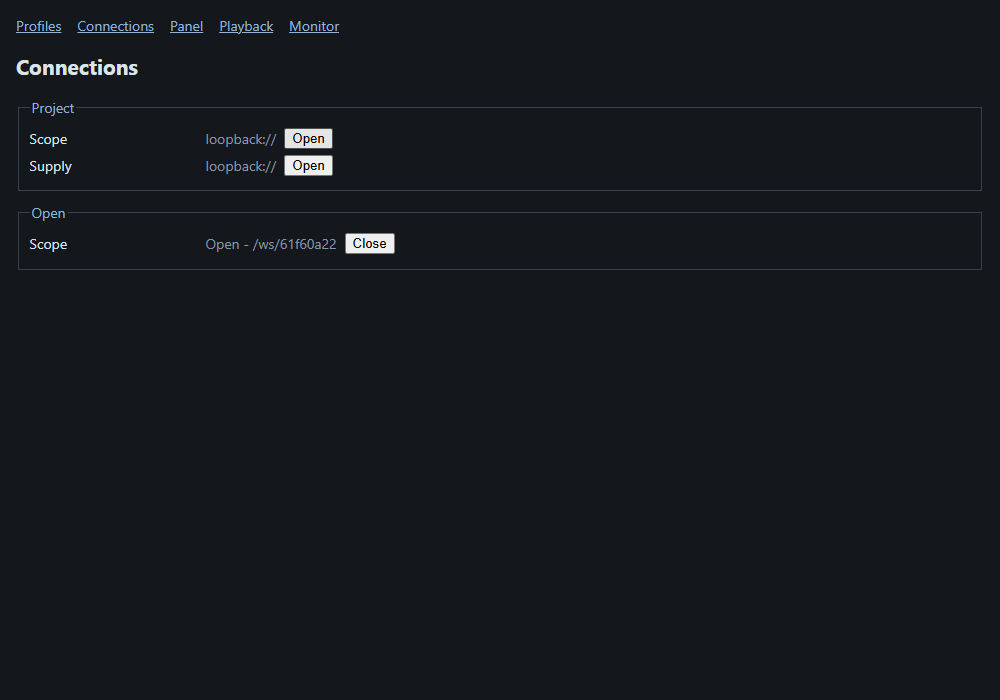
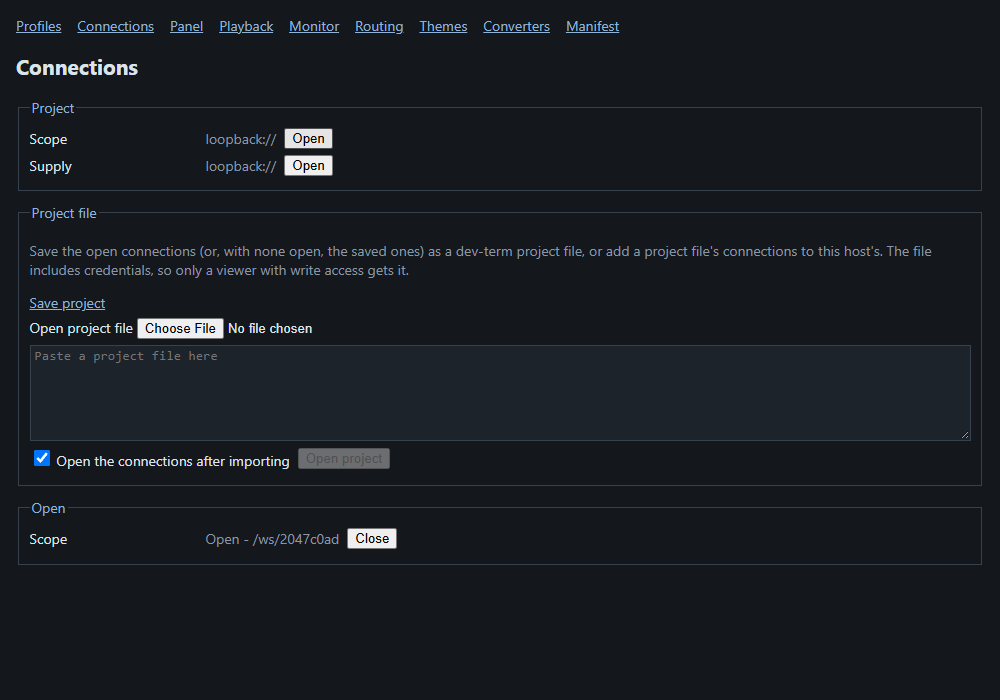
Web: project save/open on the Connections page, with export/import endpoints, tests and docs

diff --git a/tests/DevTerm.Web.Tests/WebScreenshotTests.cs b/tests/DevTerm.Web.Tests/WebScreenshotTests.cs
@@ -469,6 +469,47 @@ public class WebScreenshotTests
     }, BenchProject());
 
     [TestMethod]
+    public Task ConnectionsPage_SavesTheOpenConnectionsAndOpensAProjectFile() => RunAsync(async (page, baseUrl) =>
+    {
+        await page.GotoAsync($"{baseUrl}/connections?token=demo-token");
+        await page.WaitForLoadStateAsync(LoadState.NetworkIdle);
+        await Task.Delay(1000); // the circuit must be interactive before a click on the prerendered button counts
+        await page.Locator("[data-project=Scope] button").ClickAsync();
+        await Assertions.Expect(page.Locator("[data-open]")).ToHaveCountAsync(1);
+
+        // Save project: the open connection, as a project file.
+        var saved = await page.EvaluateAsync<string>("fetch('/api/project/export?token=demo-token').then(r => r.text())");
+        var project = ProjectFile.FromJson(saved);
+        Assert.HasCount(1, project.Connections);
+        Assert.AreEqual("Scope", project.Connections[0].Name);
+
+        // Open project: a file with one good and one invalid connection.
+        var incoming = ProjectFile.From("Incoming", [("Pasted", new CliOptions { Transport = "loopback", Presenter = ["hex"] })]).ToJson();
+        await page.Locator("[data-importtext]").FillAsync(incoming);
+        await page.Locator("[data-import]").ClickAsync();
+        await Assertions.Expect(page.Locator("[data-importresult]")).ToContainTextAsync("Imported 1 connection(s), opened 1");
+        await Assertions.Expect(page.Locator("[data-project=Pasted]")).ToHaveCountAsync(1);
+        await Assertions.Expect(page.Locator("[data-open]")).ToHaveCountAsync(2);
+        await SaveAsync(page, "web-blazor-connections-project.png");
+
+        await page.Locator("[data-importtext]").FillAsync("not a project");
+        await page.Locator("[data-import]").ClickAsync();
+        await Assertions.Expect(page.Locator("[data-importresult]")).ToContainTextAsync("Imported 0");
+    }, BenchProject());
+
+    [TestMethod]
+    public Task ConnectionsPage_ReadOnly_CannotSaveOrOpenAProject() => RunAsync(async (page, baseUrl) =>
+    {
+        await page.GotoAsync($"{baseUrl}/connections?token=watch-token");
+        await Assertions.Expect(page.Locator("[data-projectfile-readonly]")).ToBeVisibleAsync();
+        await Assertions.Expect(page.Locator("[data-import]")).ToHaveCountAsync(0);
+        var status = await page.EvaluateAsync<int>("fetch('/api/project/export?token=watch-token').then(r => r.status)");
+        Assert.AreEqual(403, status);
+        var post = await page.EvaluateAsync<int>("fetch('/api/project/import?token=watch-token', { method: 'POST', body: '{}' }).then(r => r.status)");
+        Assert.AreEqual(403, post);
+    }, BenchProject());
+
+    [TestMethod]
     public Task ProfilesPage_AddEditAndDelete_Screenshot() => RunAsync(async (page, baseUrl) =>
     {
         await page.GotoAsync($"{baseUrl}/profiles?token=demo-token");

diff --git a/src/DevTerm.Web/ConnectionManager.cs b/src/DevTerm.Web/ConnectionManager.cs
@@ -210,6 +210,63 @@ public sealed class ConnectionManager
 
     private ProjectFile LoadOrNew() => File.Exists(_projectPath!) ? ProjectFile.Load(_projectPath!) : new ProjectFile { Name = Path.GetFileNameWithoutExtension(_projectPath!) };
 
+    /// <summary>
+    /// The connections as a project file (File > Save Project in the desktop apps): the extra connections open now, with whether each was
+    /// logging, or the saved project's connections when none are open. Includes credentials, so callers must not offer it to a read-only viewer.
+    /// Null when there is nothing to save.
+    /// </summary>
+    public string? ExportProject(string name)
+    {
+        var tabs = _open.Values.Select(c => new ProjectTabState(c.Name, c.Hub.Options, [], c.Hub.LogPath is not null)).ToList();
+        if (tabs.Count == 0)
+        {
+            foreach (var (connectionName, _) in Project())
+            {
+                if (ProjectOptions(connectionName) is { } options)
+                {
+                    tabs.Add(new ProjectTabState(connectionName, options, [], false));
+                }
+            }
+        }
+
+        return tabs.Count == 0 ? null : ProjectFile.FromTabs(name, tabs, null).ToJson();
+    }
+
+    /// <summary>
+    /// Adds every connection of a project file (File > Open Project) to this host's connections, replacing same-named ones; the file's
+    /// window layout and per-tab history have no meaning for a web host and are ignored. Returns the names imported and an error per
+    /// connection (or one for an unreadable file) that was not.
+    /// </summary>
+    public (IReadOnlyList<string> Imported, IReadOnlyList<string> Errors) ImportProject(string json)
+    {
+        ProjectFile project;
+        try
+        {
+            project = ProjectFile.FromJson(json);
+        }
+        catch (InvalidDataException ex)
+        {
+            return ([], [ex.Message]);
+        }
+
+        var imported = new List<string>();
+        var errors = new List<string>();
+        foreach (var connection in project.Connections)
+        {
+            var error = Upsert(connection.Name, connection.ProfileJson);
+            if (error is null)
+            {
+                imported.Add(connection.Name);
+            }
+            else
+            {
+                errors.Add($"{connection.Name}: {error}");
+            }
+        }
+
+        return (imported, errors);
+    }
+
     public IReadOnlyList<(string Id, string Name, string State)> Open() =>
         [.. _open.Select(c => (c.Key, c.Value.Name, c.Value.Hub.State.ToString()))];
 

diff --git a/src/DevTerm.Web/WebHost.cs b/src/DevTerm.Web/WebHost.cs
@@ -260,6 +260,30 @@ public static class WebHost
         // The connections of the --project file (name + description only; no credentials leave the host), or [] without one.
         app.MapGet("/api/project", () => Results.Json(connections.Project().Select(c => new { name = c.Name, description = c.Description }))).WithSummary("The project file's connections (name and description only)");
 
+        // Save and open a whole project (File > Save Project / Open Project). Both carry credentials, so a read-only viewer gets neither.
+        app.MapGet("/api/project/export", (HttpContext context, string? name) =>
+        {
+            if (context.Items.ContainsKey(AccessTokenMiddleware.ReadOnlyItem))
+            {
+                return Results.StatusCode(StatusCodes.Status403Forbidden);
+            }
+
+            return connections.ExportProject(string.IsNullOrWhiteSpace(name) ? "project" : name) is { } json
+                ? Results.Text(json, "application/json")
+                : Results.NotFound(new { error = "No connections are open and the host has no saved project." });
+        }).WithSummary("The open connections (or the saved project) as a dev-term project file; 404 when there are none, 403 read-only");
+        app.MapPost("/api/project/import", async (HttpContext context) =>
+        {
+            if (context.Items.ContainsKey(AccessTokenMiddleware.ReadOnlyItem))
+            {
+                return Results.StatusCode(StatusCodes.Status403Forbidden);
+            }
+
+            using var reader = new StreamReader(context.Request.Body);
+            var (imported, errors) = connections.ImportProject(await reader.ReadToEndAsync(context.RequestAborted));
+            return errors.Count > 0 && imported.Count == 0 ? Results.BadRequest(new { imported, errors }) : Results.Json(new { imported, errors });
+        }).WithSummary("Add a project file's connections to the host's; 400 when none could be imported, 403 read-only");
+
         // Create, replace and remove a project connection. The body is the profile JSON (what a saved profile holds).
         app.MapPut("/api/project/connections/{name}", async (HttpContext context, string name) =>
         {

diff --git a/TODO.md b/TODO.md
@@ -8,7 +8,7 @@ Completed work is logged by date under `docs/changes/`.
 
 Queue from your 2026-10-02 answers. Each item below is partly built; what is left is stated per item.
 
-1. **Message brokers and the web tunnel** (unlocked). MQTT, AMQP and STOMP are built and verified (see `docs/changes/2026-10-02.md` and `2026-10-03.md`); the `DevTerm.Web` host is built too (loopback-only, token auth, `/ws` tunnel). The Blazor `/panel` page is built too (see `docs/changes/2026-10-03.md`). Indicator values on `/panel` update live. Web parity with the desktop apps is under way (2026-10-08): send format, echo, clear, logging, theme, history and the per-session Device menu are built; Playback, XON/XOFF, the Stream Monitor and Routing, the Theme builder and the converter tools editor and Stream Monitor Convert and the Manifest editor (typed expressions, no pickers) are built too; left: project save/open, Configure device. Also left: a real home-automation broker check. Proposals: [message-broker-protocols](docs/design/proposals/message-broker-protocols.md), [web-tunnel-blazor-frontend](docs/design/proposals/web-tunnel-blazor-frontend.md).
+1. **Message brokers and the web tunnel** (unlocked). MQTT, AMQP and STOMP are built and verified (see `docs/changes/2026-10-02.md` and `2026-10-03.md`); the `DevTerm.Web` host is built too (loopback-only, token auth, `/ws` tunnel). The Blazor `/panel` page is built too (see `docs/changes/2026-10-03.md`). Indicator values on `/panel` update live. Web parity with the desktop apps is under way (2026-10-08): send format, echo, clear, logging, theme, history and the per-session Device menu are built; Playback, XON/XOFF, the Stream Monitor and Routing, the Theme builder and the converter tools editor and Stream Monitor Convert and the Manifest editor (typed expressions, no pickers) are built too; project save/open is built too (2026-10-09); left: Configure device. Also left: a real home-automation broker check. Proposals: [message-broker-protocols](docs/design/proposals/message-broker-protocols.md), [web-tunnel-blazor-frontend](docs/design/proposals/web-tunnel-blazor-frontend.md).
 3. **Observability**: built (see `docs/changes/2026-10-02.md`). Metrics now export every 10 s (see `docs/changes/2026-10-03.md`). Traces confirmed in the Aspire dashboard container (see `docs/changes/2026-10-03.md`). Left: confirm the metric instruments show in its Metrics page. `ILogger` export has nothing to export yet (no code logs through `ILogger`), so it waits until something does.
 4. **TUI-only palette option** for the light theme on 16-color consoles: built (see `docs/changes/2026-10-02.md`). Left: look at it on a real legacy conhost.
 5. **Plugin loading**: the loader is built (see `docs/changes/2026-10-03.md`). Left: move the built-in decoders (NMEA, RadexOne, ...) out of the core references into plugin folders. Not a mechanical move: `ServiceCollectionExtensions` registers them, and `TuiMode`, `MainWindow` and `WebHost` reference the device projects directly for their menu items and control panels (K8055, Busylight, SCPI, De5000, ZoomH4n, RadexOne, NMEA), so it needs a plugin-contributed menu/panel contract first. The contract (`IDevicePanelContribution`) and the TUI/WPF menu entries are built; web `Web:Panel` also accepts a contributed id; K8055 and Busylight register contributions and the web host uses them; the TUI/WPF K8055/Busylight items now come from them too; K8055 and Busylight now load from `plugins/k8055` and `plugins/busylight` (copied into each app and test output by `Directory.Build.targets`); RadexOne, ZoomH4n, De5000 and NMEA load the same way; left: SCPI only, which `ConnectionEditorViewModel`, the profile picker and auto-detect reference directly, so it needs those pulled behind an interface first. See [plugin-contributed-panels](docs/design/proposals/plugin-contributed-panels.md).

diff --git a/docs/changes/2026-10-08.md b/docs/changes/2026-10-08.md
@@ -87,3 +87,5 @@ Web parity, step 10: Stream Monitor Convert. The `/monitor` page gets a Convert 
 Web parity, step 11: Manifest editor. New `/manifest` page (`WebManifestEditor` over `ManifestEditorViewModel`, `Web:ManifestsDirectory`) with New/Open/Save/Check/Undo/Redo, the outline with Add/Remove/Up/Down, a generated form per part through the new shared `FormFields` component, and a control list preview. Open is limited to the discovered user/installed manifests. Tests: build, check, save and read-only flows plus layout rows at 1280 and 400. Left: expression pickers, live-renderer preview, Save As, recordings and .ksy import on the web.
 
 Network discovery, 2026-10-09: scanned the bench LAN with `--listnetworkdevices` plus a manual port sweep. The DG1062Z (now .131) and a USR-TCP232-302 bridge (.110) were the only dev-term targets; the rest were Sonos, a Chromecast, AirPlay, the eero router, a printer and a few unidentified hosts. The bridge sent no reply to a UDP search broadcast, but its web page answers with a Basic-auth realm naming the model, so new `UsrBridgeProbe` (in `NetworkDiscovery.CreateDefault`) finds bridges by that. Verified live: `192.168.0.110:23  tcp  USR-TCP232-302 serial bridge  (usr-tcp232, usr)`. Unit test `NetworkDiscoveryTests.UsrBridgeProbe_KeepsOnlyHostsWhoseLoginRealmIsAUsrBridge`. The TDS2024 behind the bridge was unpowered, so it gave no `*IDN?` reply, which is expected, not a fault.
+
+Web parity, step 12: project save/open. The Connections page gets a Project file section (Save project download, upload or paste a project file, Open project with an "open them too" option) over new `ConnectionManager.ExportProject`/`ImportProject` and `GET /api/project/export`, `POST /api/project/import` (both 403 for a read-only token, since the file carries credentials). Window layout, active tab and history are ignored on the web. Tests: `ConnectionsPage_SavesTheOpenConnectionsAndOpensAProjectFile`, `ConnectionsPage_ReadOnly_CannotSaveOrOpenAProject`; screenshot `web-blazor-connections-project.png`.

diff --git a/docs/specs/web-terminal.md b/docs/specs/web-terminal.md
@@ -95,6 +95,15 @@ open (name, state, `/ws/<id>`, **Close**). It shares `ConnectionManager` with th
 over `POST /api/connections` or in another tab appears here without a reload (it re-reads on the `connection-*` events).
 A read-only token sees both lists with every button disabled and a notice; with no `--project` the page says so.
 
+**Project file** (File > Save Project / Open Project in the desktop apps): a **Save project** link
+(`GET /api/project/export?name=`) downloads the open connections as a dev-term project file (or, with none open, the saved
+project's connections; 404 when there are none). **Open project file** takes a file (or pasted text) and **Open project**
+adds each of its connections to the host's (`POST /api/project/import`, the same validation and `ConnectionManager.Upsert` as
+the Profiles page), replacing same-named ones; "Open the connections after importing" (on by default) also opens each, like the
+desktop's Open Project. The result line says how many were imported and opened and lists any that were not. A file's window
+layout, active tab and send history mean nothing to a web host and are ignored. A project file holds credentials, so a
+read-only token gets neither the link nor the import (both endpoints answer 403).
+
 ## Blazor profiles page (`/profiles`)
 
 Same token auth. Lists the `--project` file's connections (name, description, **Edit**, **Open**, **Delete**) and **New connection...**.

diff --git a/docs/user-guide/projects.md b/docs/user-guide/projects.md
@@ -26,3 +26,12 @@ In the TUI and WPF, **File > Save Project...** writes every open tab's connectio
 unless you choose it.
 
 The TUI and WPF save more than the connection: each tab's send history (Up/Down recall) and whether it was logging are saved too (a logging tab reopens logging to a fresh automatic file, or to its explicit `--log` path), and the tab that was in front is selected again on open. The file shape adds `Active` (a connection name) at the top and optional `History` and `Log` beside each `Profile`. The command-line `--saveproject` still writes connections only.
+
+## On the web
+
+The Connections page (`/connections`) has a **Project file** section. **Save project** downloads the open connections as a
+project file; **Open project file** (or pasting its text) then **Open project** adds its connections to the host's, opening
+them too unless you untick the box. Unlike the desktop apps it does not restore a window layout or send history, since a web
+host has neither. A read-only token cannot use it, because the file carries credentials.
+
+![The Connections page after opening a pasted project](images/web-blazor-connections-project.png)
